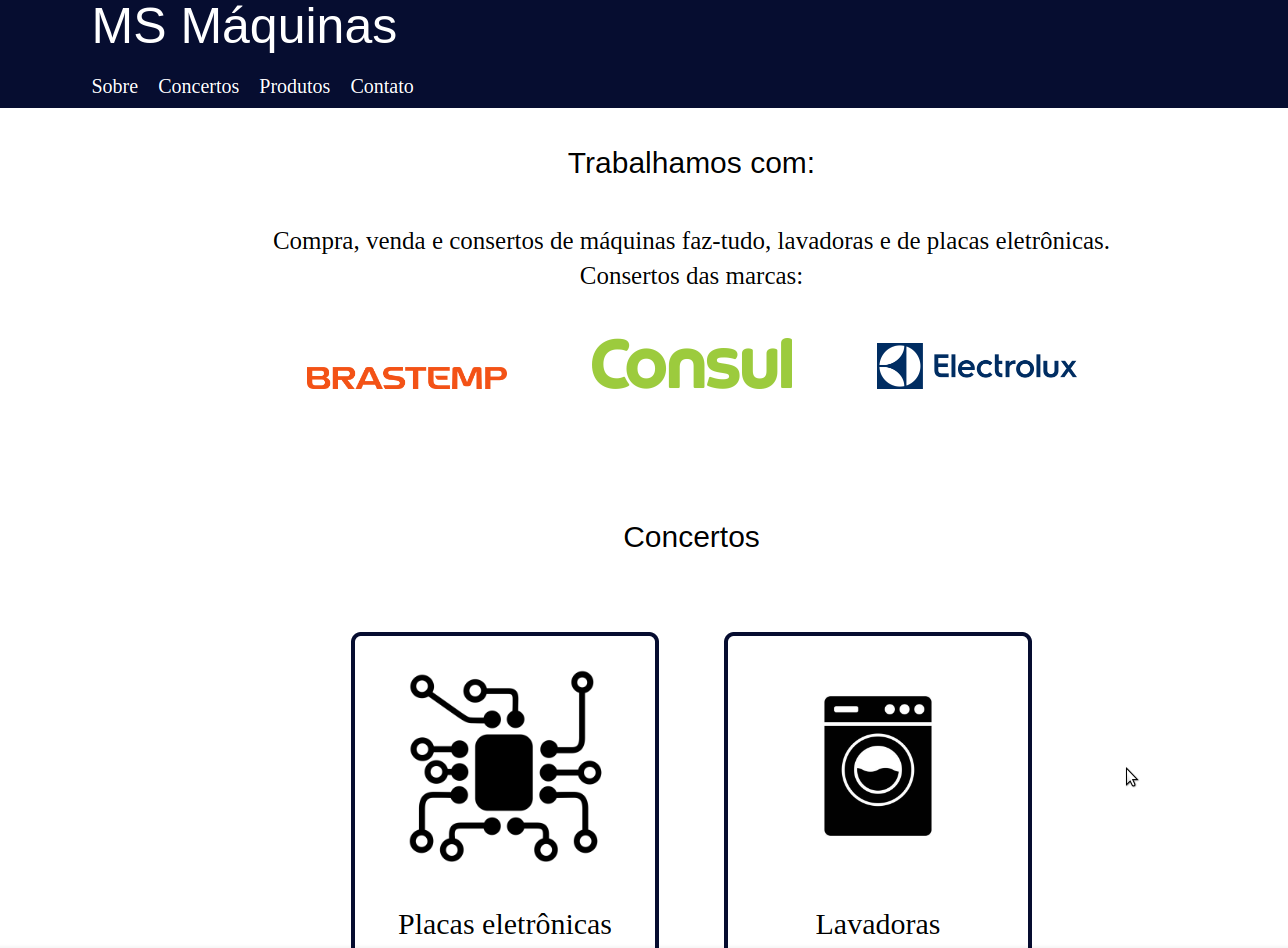
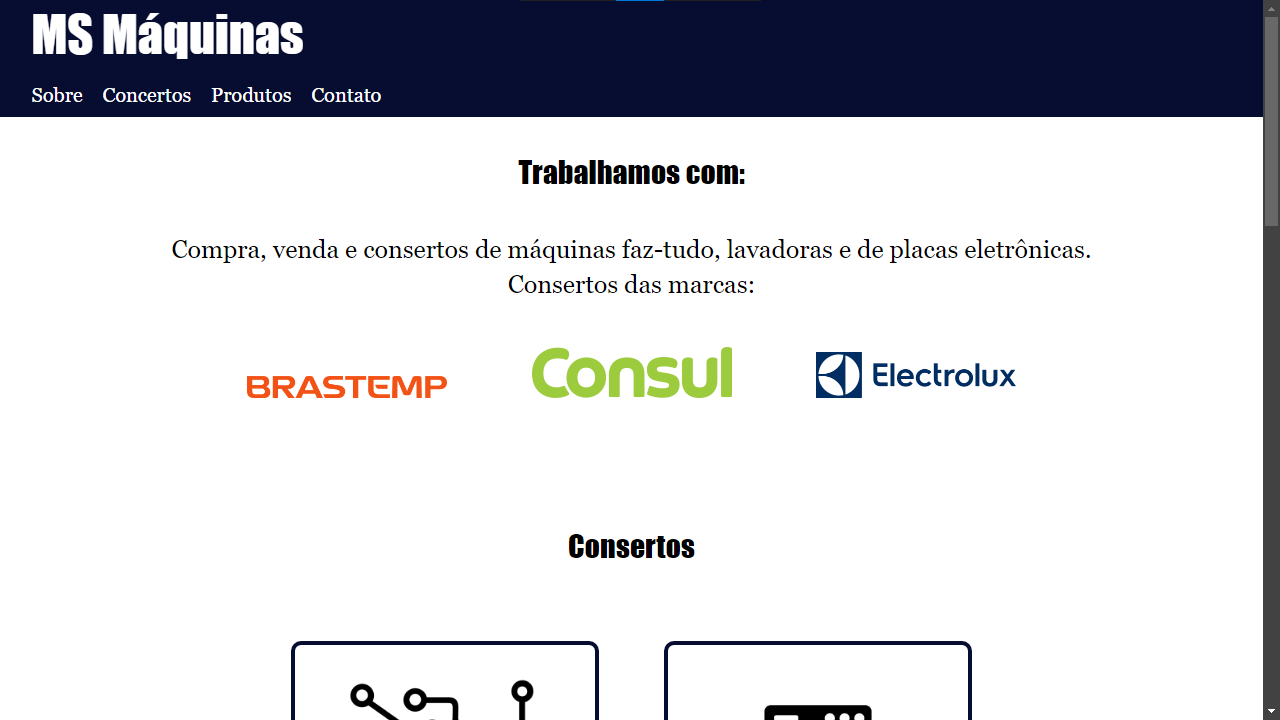
Add files via upload

diff --git a/index.html b/index.html
@@ -4,14 +4,15 @@
     <meta charset="UTF-8">
     <meta name="viewport" content="width=device-width, initial-scale=1.0">
     <link href="https://cdn.jsdelivr.net/npm/bootstrap@5.3.3/dist/css/bootstrap.min.css" rel="stylesheet" integrity="sha384-QWTKZyjpPEjISv5WaRU9OFeRpok6YctnYmDr5pNlyT2bRjXh0JMhjY6hW+ALEwIH" crossorigin="anonymous">
+    <link rel="stylesheet" href="https://cdnjs.cloudflare.com/ajax/libs/font-awesome/6.6.0/css/all.min.css">
     <link rel="stylesheet" href="style.css">
     <title>Portfolio</title>
 </head>
 <body class="container text-center ">
-    <img class="img-thambnail rounded-circle w-25 mt-5" src="imagens/esquilo.jpg" alt="Euzinho">
+    <img class="img-thumbnail rounded-circle w-25 mt-5" src="imagens/Eu.png" alt="Euzinho">
     <p></p>
     <h1 class="mt-3">Eu sou o Gabriel</h1>
-    <p>Sou um jovem, interessado em areas da tecnologia como programação e computação</p>
+    <h2>Sou um jovem, interessado em areas da tecnologia como programação e computação.</h2>
     <h3>Linguagens que tive contato:</h3>
     <div>
         <p class="badge text-bg-primary">HTML</p>
@@ -20,13 +21,14 @@
         <p class="badge text-bg-primary">Python</p>
         <p class="badge text-bg-primary">C</p>
     </div>
+    <h2>Meus Projetos</h2>
     <main class="container">
         <div class="container row justify-content-around">
             <div class="card col-md-4 m-3" style="height: 25rem; width: 18rem;">
                 <img src="imagens/tratamento.png" class="card-img-top pt-3" alt="Tratamento">
                 <div class="card-body">
                   <h5 class="card-title">Tratamento de Dados</h5>
-                  <p class="card-text">Projeto desenvolvido para manipular dados e criar graficos.</p>
+                  <p class="card-text">Projeto desenvolvido para manipular dados e criar gráficos.</p>
                   <button type="button" class="btn btn-primary" data-bs-toggle="modal" data-bs-target="#Modal1">Saiba Mais</button>
                 </div>
               </div>
@@ -52,7 +54,7 @@
             <img src="imagens/MSmaquinas.png" class="card-img-top pt-3" alt="MS Maquinas">
             <div class="card-body">
               <h5 class="card-title">MS Maquinas</h5>
-              <p class="card-text">Primeira pagina web desenvolvida, uma loja de vendas e conserto de maquinas.</p>
+              <p class="card-text">Primeira página web desenvolvida, uma loja de vendas e conserto de máquinas.</p>
               <button type="button" class="btn btn-primary" data-bs-toggle="modal" data-bs-target="#Modal4">Saiba Mais</button>
             </div>
           </div>
@@ -68,7 +70,7 @@
             <img src="imagens/Voce decide.png" class="card-img-top pt-3" alt="Você Decide">
             <div class="card-body">
               <h5 class="card-title">Você Decide</h5>
-              <p class="card-text">Projeto desenvolvido em JavaScript, uma pequena historia de aventura com escolhas e consequencias.</p>
+              <p class="card-text">Projeto desenvolvido em JavaScript, uma pequena história de aventura com escolhas e consequências.</p>
               <button type="button" class="btn btn-primary" data-bs-toggle="modal" data-bs-target="#Modal6">Saiba Mais</button>
             </div>
           </div>
@@ -83,7 +85,7 @@
                   </button>
                 </div>
                 <div class="modal-body">
-                  <p> Projeto feito em JavaScript, com o intuito de trabalhar com banco de dados e graficos. A primeira parte se refere a uma pesquisa ficticia realizada com IA sobre bebidas mais consumidas. Ja a segunda parte se refere a uma pesquisa de campo feita no colegio em que estudei CCM-Tancredo Neves sequindo o mesmo modelo da pesquisa ficticia</p>
+                  <p>Projeto feito em JavaScript, com o intuito de trabalhar com banco de dados e gráficos. A primeira parte se refere a uma pesquisa fictícia realizada com IA sobre bebidas mais consumidas. Já a segunda parte se refere a uma pesquisa de campo feita no colégio em que estudei, CCM-Tancredo Neves, seguindo o mesmo modelo da pesquisa ficticia.</p>
                   <img class="w-100" src="imagens/tratamento.png">
                 </div>
                 <div class="modal-footer">
@@ -103,7 +105,7 @@
                   </button>
                 </div>
                 <div class="modal-body">
-                  <p> Projeto feito em JavaScript, com intuito de utilizar uma API de reconhecimento de voz. Tudo o que precisa ser feito e permitir a captura de voz. Posteriormente, falar um numero e o site ira dizer se o valor dito e menor ou maior do que o numero secreto. Caso você diga algo diferente de um valor nunero, ele emitira uma mensagem digendo que o "Valor e Invalido"   </p>
+                  <p>Projeto feito em JavaScript, com intuito de utilizar uma API de reconhecimento de voz. Tudo o que precisa ser feito é permitir a captura de voz. Posteriormente, falar um número e o site irá dizer se o valor dito é menor ou maior do que o número secreto. Caso você diga algo diferente de um valor numérico, ele emitirá uma mensagem dizendo que o "Valor é Inválido"</p>
                   <img class="w-100" src="imagens/Acerte o numero.png">
                 </div>
                 <div class="modal-footer">
@@ -123,7 +125,7 @@
                   </button>
                 </div>
                 <div class="modal-body">
-                  <p> Projeto de um jogo feito em JavaScript, classico jogo mobile de plataforma Flappy Bird. O jogo consiste em você(passarinho) ir pulando e atravessando os canos que aparecem pelo seu caminho. O jogo e continuo, nao tendo um fim, voce apenas ira testar sua capacidade vendo ate onde voce chega.  </p>
+                  <p>Projeto de um jogo feito em JavaScript, clássico jogo mobile de plataforma Flappy Bird. O jogo consiste em você (passarinho) ir pulando e atravessando os canos que aparecem pelo seu caminho. O jogo é contínuo, não tendo um fim, você apenas irá testar sua capacidade vendo até onde você chega.  </p>
                   <img class="w-100" src="imagens/Flappy Bird.png">
                 </div>
                 <div class="modal-footer">
@@ -143,7 +145,7 @@
                   </button>
                 </div>
                 <div class="modal-body">
-                  <p> Projeto feito puramente em HTML/CSS, foi o meu primeiro projeto web. Uma loja de vendas e concerto nao so de maquinas de lavar mas tambem de placas e componentes eletronicos presentes nas lavadouras. O site serve para cliente que desejam comprar uma maquinas, mas tambem para demais mecanicos de eletronicos que buscam apoio em seus consertos. </p>
+                  <p>Projeto feito puramente em HTML/CSS, foi o meu primeiro projeto web. Uma loja de vendas e conserto não só de máquinas de lavar, mas também de placas e componentes eletrônicos presentes nas lavadoras. O site serve para clientes que desejam comprar uma máquina, mas também para demais mecânicos de eletrônicos que buscam apoio em seus consertos. </p>
                   <img class="w-100" src="imagens/MSmaquinas.png">
                 </div>
                 <div class="modal-footer">
@@ -163,7 +165,7 @@
                   </button>
                 </div>
                 <div class="modal-body">
-                  <p> Projeto feito em Python, uma micro lista de cadastro de uma empresa de viagem internacionais. Primeiro deve ser feito o cadastro do cliente e o destino da viagem. Entao voce pode verificar a lista completa, assim como ativar e desativar a viagem. </p>
+                  <p>Projeto feito em Python, uma micro lista de cadastro de uma empresa de viagens internacionais. Primeiro, deve ser feito o cadastro do cliente e o destino da viagem. Então, você pode verificar a lista completa, assim como ativar e desativar a viagem.</p>
                   <img class="w-100" src="imagens/Global Explorer.png">
                 </div>
                 <div class="modal-footer">
@@ -182,7 +184,7 @@
                   </button>
                 </div>
                 <div class="modal-body">
-                  <p> Projeto feito em JavaScript, uma pequena historia de escolhas que no final mostra um resumo mais o seu destino em decorrencia de suas escolhas. A historia e sobre um jovem aventureiro que vai em busca de uma grande fortuna em uma ilha inospita. </p>
+                  <p>Projeto feito em JavaScript, uma pequena história de escolhas que no final mostra um resumo e o seu destino em decorrência de suas escolhas. A história é sobre um jovem aventureiro que vai em busca de uma grande fortuna em uma ilha inóspita. </p>
                   <img class="w-100" src="imagens/Voce decide.png">
                 </div>
                 <div class="modal-footer">
@@ -198,8 +200,10 @@
     <footer class="container pt-5 mt-5 ">
       <h2>Entre contato</h2>
       <div>
+        <i class="fa-brands fa-github"></i>
         <a class=" link me-3" href="https://github.com/GabzinhoHD">Github</a>
-        <a class="link" href="">LinkedIn</a>
+        <i class="fa-brands fa-linkedin"></i>
+        <a class="link" href="https://www.linkedin.com/in/gabriel-santos-cardozo-6492bb312/">LinkedIn</a>
       </div>
       <p class="my-2">&copy; Copyright 2024. Produzido por Gabriel S. Cardozo </p>
     </footer>

diff --git a/style.css b/style.css
@@ -8,31 +8,69 @@
     --preto: #000814ff;
     --azul-escuro: #001d3dff;
     --azul: #003566ff;
-    --cinza: #c6d4ffff;
-    --cinza-escuro: #7a82abff;
+    --cinza: rgb(170, 180, 212);
     --verde: #307473ff;
     --verde-claro: #12664fff;
     --verde-azulado: #2dc2bdff;
+    --branco: #ffffff;
 }
 
 body {
     font-family: var(--fonte-texto);
     font-weight: bolder;
     color: var(--preto);
-    background-color: var(--cinza-escuro);
+    background-color: var(--cinza);
     
 }
 
 h1,h3{
     font-family: var(--fonte-titulo);
+    font-size: 2.9em;
 }
 
 .card{
     background-color: var(--verde-azulado);
 }
-.link {
-    text-decoration: none;
-    font-size:  1.8em;
-    color: var(--verde-claro);
+
+.modal-header{
+    color: var(--preto);
+    font-family: var(--fonte-texto);
+    background-color: var(--verde-azulado);
 }
 
+.modal-body {
+    color: var(--preto);
+    font-family: var(--fonte-texto);
+    background-color: var(--verde-claro);
+}
+
+.modal-footer{
+    font-family: var(--fonte-titulo);
+    background-color: var(--verde-azulado);
+    color: var(--branco);
+}
+.modal-footer a {
+    color: var(--branco);
+}
+
+.btn{
+    color: var(--branco);
+    background-color: var(--azul-escuro);
+    text-decoration: none;
+}
+
+.btn:hover{
+    background-color: var(--verde-claro);
+    transition: 0.5s;
+}
+
+a {
+    text-decoration: none;
+    font-size:  1.6em;
+    color: var(--verde);
+}
+
+h2 {
+    font-size: 1.7em;
+    font-family: var(--fonte-titulo-2);
+}
